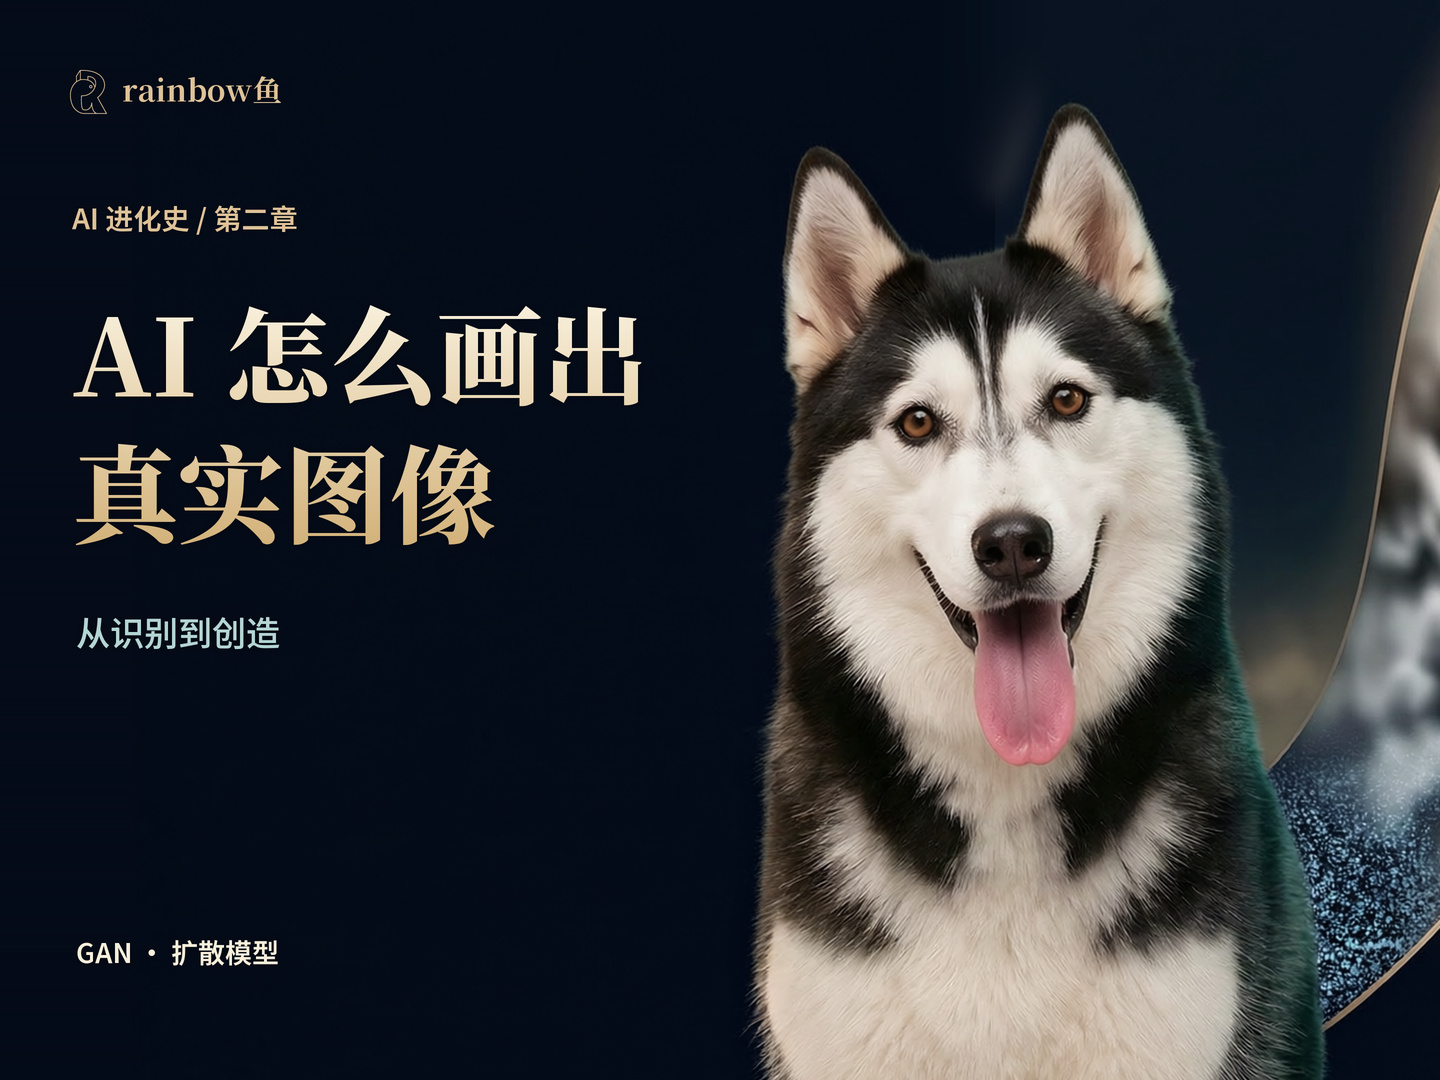
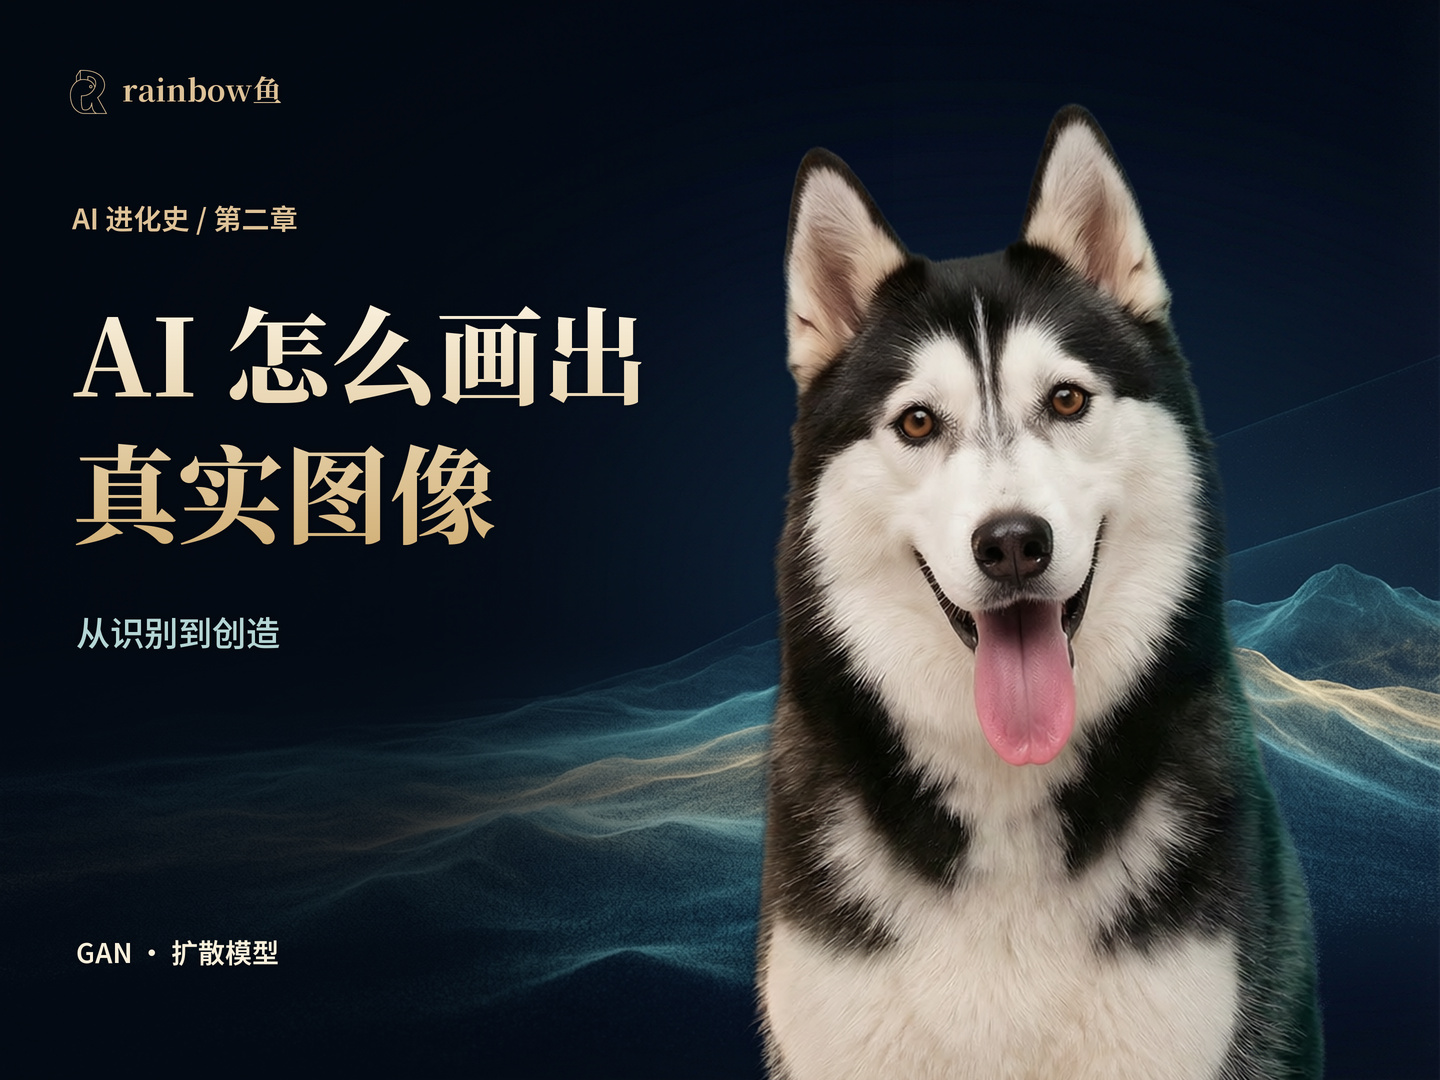
docs: refine chapter 2 4:3 cover background

diff --git a/chapters/02-generation/publication/2026-09-29/README.md b/chapters/02-generation/publication/2026-09-29/README.md
@@ -6,16 +6,18 @@ rainbow鱼 ·《AI进化史》第二章《从识别到创造》· V18 · 30分24
 
 ## 封面
 
-当前封面为 **V6**：踏雪以更大的近景、自然吐舌的表情出现，背景用“噪声 → 模糊结构 → 清晰毛发图像”的空间变化呼应扩散去噪。四比例保持原标题、Logo、字号与排版位置，并分别检查主体遮挡和手机缩略图。封面是概念图，不代表本章的小型GAN/DDPM实验输出；正片版本仍为V18。
+当前 **4:3 封面更新为 V7，其余三个比例为 V6**。4:3 保留踏雪的近景大小与自然吐舌表情，背景换成青金色噪声逐渐组织成结构的连续波面，精修毛缘与前后遮挡，去掉容易被看成额外尾巴的背景纹理。其他比例继续以“噪声 → 模糊结构 → 清晰毛发图像”的空间变化呼应扩散去噪。
 
-| 比例 | 分辨率 | 下载 |
-|---|---|---|
-| 横版16:9 | 1920×1080 | [JPG](covers/第二章_踏雪_横版16x9_1920x1080.jpg) |
-| 横版4:3 | 1440×1080 | [JPG](covers/第二章_踏雪_横版4x3_1440x1080.jpg) |
-| 竖版9:16 | 1080×1920 | [JPG](covers/第二章_踏雪_竖版9x16_1080x1920.jpg) |
-| 竖版3:4 | 1080×1440 | [JPG](covers/第二章_踏雪_竖版3x4_1080x1440.jpg) |
+四比例保持原标题、Logo、字号与排版位置，并分别检查主体遮挡和手机缩略图。封面是概念图，不代表本章的小型 GAN/DDPM 实验输出；正片版本仍为 V18。
 
-本仓库收录用于发布的JPG，源工程保留PNG、可编辑排版、参考图与生成记录。图片哈希及封面修订号见 [files.json](files.json)。署名rainbow鱼，角色踏雪使用“她”。角色与背景由Qwen Image依据参考重绘，保留棕色双眼、细鼻梁白纹、三角立耳与黑白长毛；文字和真实Logo为后期精确合成。字体或品牌的使用范围沿用原说明。
+| 比例 | 分辨率 | 封面修订 | 下载 |
+|---|---|---|---|
+| 横版16:9 | 1920×1080 | V6 | [JPG](covers/第二章_踏雪_横版16x9_1920x1080.jpg) |
+| 横版4:3 | 1440×1080 | V7 | [JPG](covers/第二章_踏雪_横版4x3_1440x1080.jpg) |
+| 竖版9:16 | 1080×1920 | V6 | [JPG](covers/第二章_踏雪_竖版9x16_1080x1920.jpg) |
+| 竖版3:4 | 1080×1440 | V6 | [JPG](covers/第二章_踏雪_竖版3x4_1080x1440.jpg) |
+
+本仓库收录用于发布的 JPG，源工程保留 PNG、可编辑排版、参考图与生成记录。图片哈希及按比例记录的封面修订号见 [files.json](files.json)。署名 rainbow鱼，角色踏雪使用“她”。V6 角色与背景由 Qwen Image 依据参考重绘，保留棕色双眼、细鼻梁白纹、三角立耳与黑白长毛；4:3 V7 沿用已确认角色的原始像素，以精修透明毛缘融入新生成的无动物环境背景。文字和真实 Logo 为后期精确合成。字体或品牌的使用范围沿用原说明。
 
 ## 文案与资料
 
